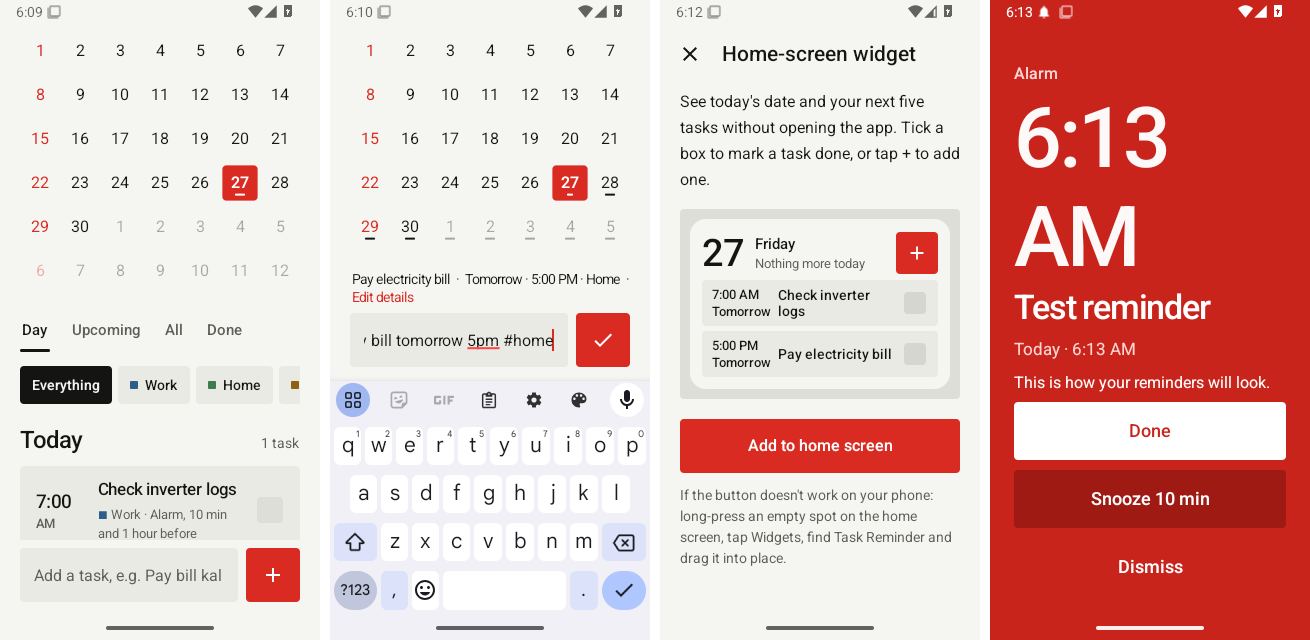
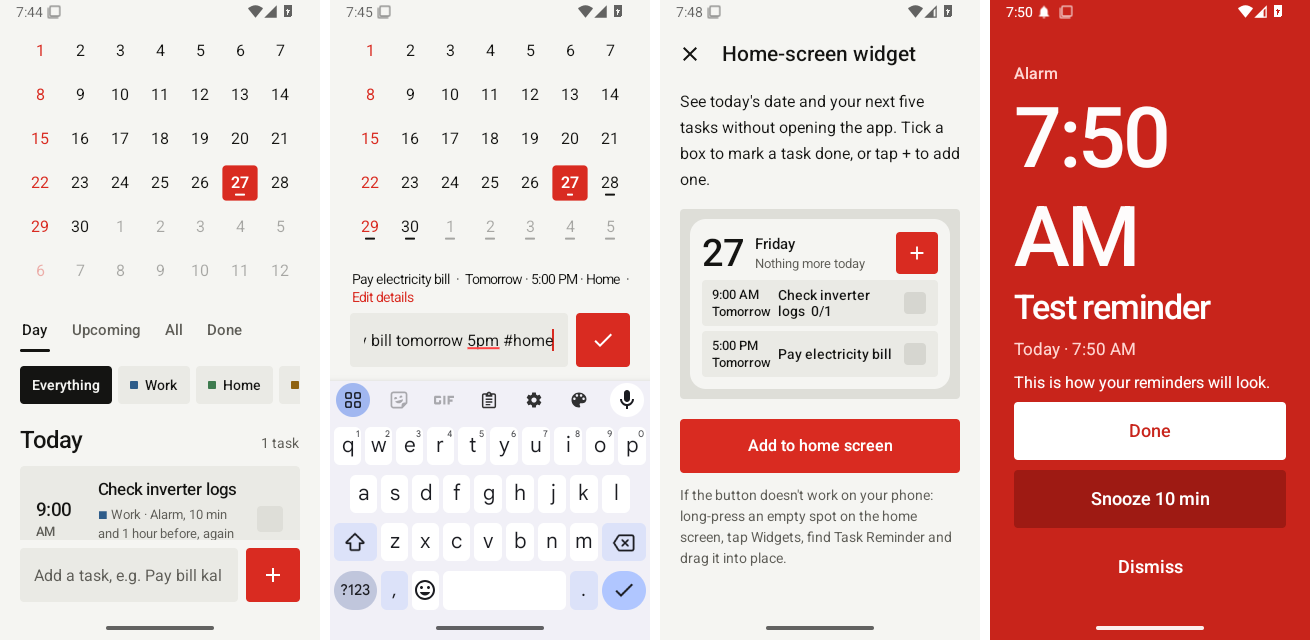
Task Reminder 1.3 APK and download page
Claude-Session: https://claude.ai/code/session_01XDfBxEr3YyJ6gUHpqpSX4G

diff --git a/README.md b/README.md
@@ -4,8 +4,10 @@ A simple calendar and task reminder app for Android, made by **Abdul Basit Soomr
 
 ## Download
 
-**[⬇ Download the latest APK](../../releases/latest)**: open the link on your phone, tap **TaskReminder.apk** and install.
-Android will ask you to allow installing apps from your browser the first time.
+### [⬇ Download Task Reminder 1.3 (APK, 89 KB)](https://github.com/sabdulbasit787/task-reminder-app/raw/main/download/TaskReminder.apk)
+
+Open the link on your Android phone, then open the downloaded file to install.
+The first time, Android will ask you to allow installing apps from your browser: allow it, then go back and install.
 
 Works on Android 8.0 and newer. Free, no ads, no account, and your tasks stay on your phone.
 
@@ -32,4 +34,11 @@ so your phone never delays a reminder. Then try **Test alarm**.
 
 ## Updates
 
-New versions appear under [Releases](../../releases). Install them over the old one; your tasks are kept.
+The link above always gives the newest version. Install it over the old one; your tasks are kept.
+
+| Version | What's new |
+|---|---|
+| 1.3 | Keep reminding until done, checklists inside tasks, backup and restore |
+| 1.2 | Quick add in plain words, custom repeats, second reminder, categories and priority, search, home-screen widget |
+| 1.1 | New desk-calendar design |
+| 1.0 | Calendar, tasks, notification and alarm reminders, repeats |
